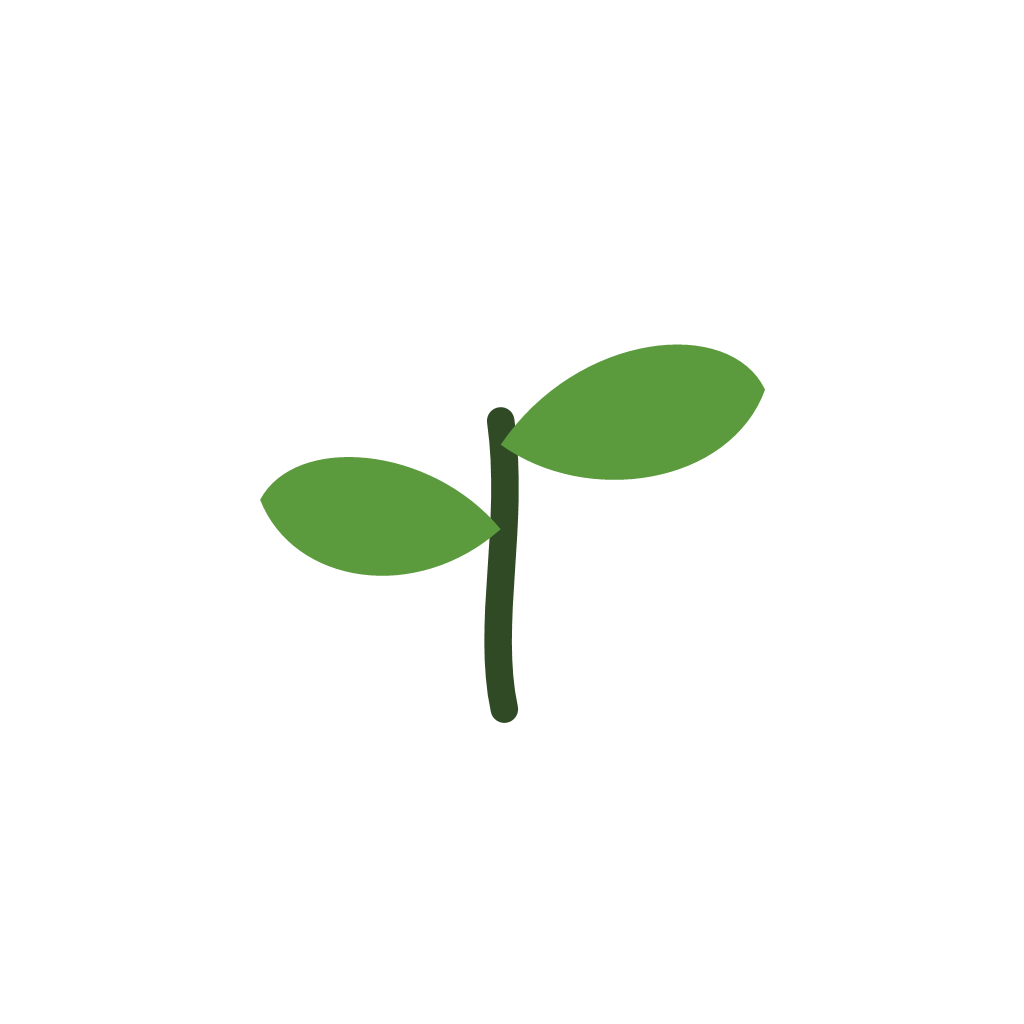
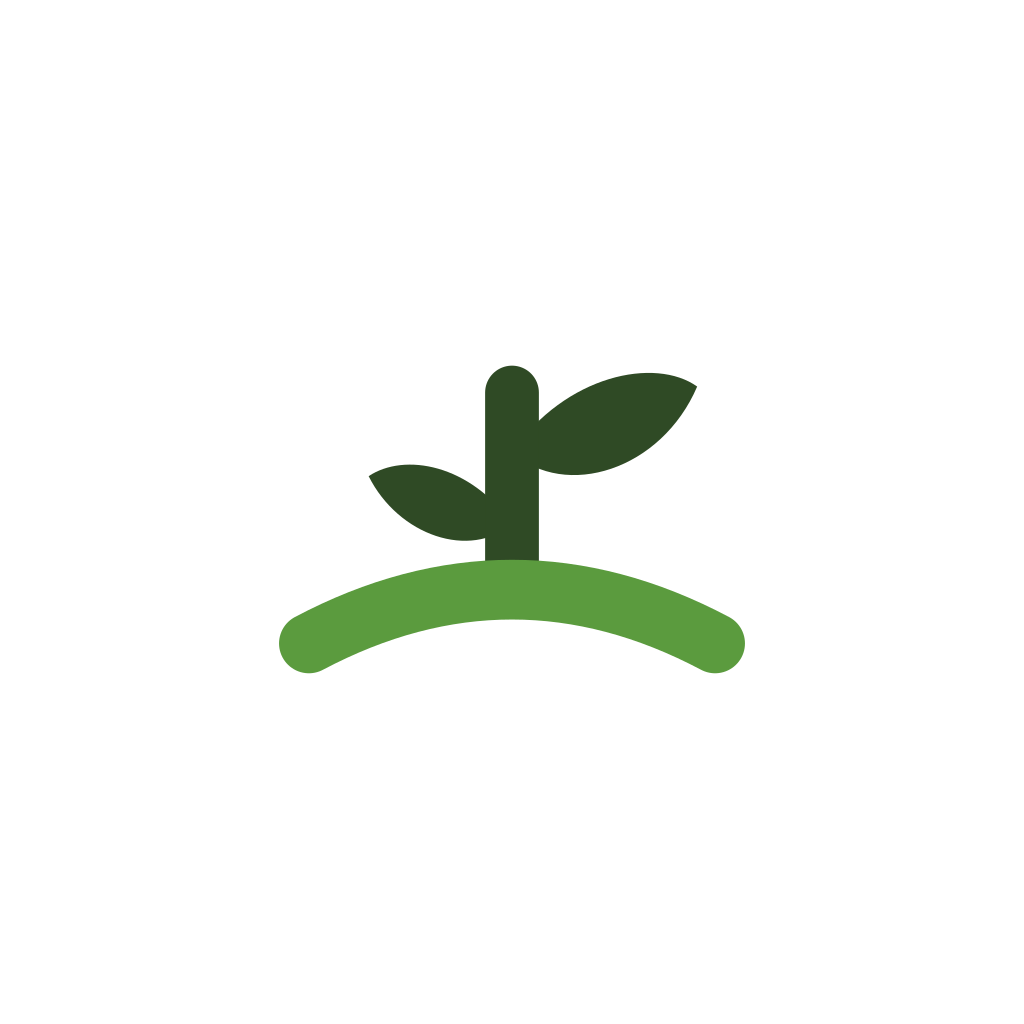
feat: ブランドシンボルを「畝と芽」に確定し、SVG から素材を書き出すようにした (#66)
Q2 のシンボルを 4 案から選定。畝から芽が生えている形にする。
場所(区画)を持つアプリだと分かるのは 4 案でこれだけだった。

## 形の決めごと

- 畝を最後に描いて茎の根元を覆う。芽を宙に浮かせると畑ではなく観葉植物に見える
- 双葉は左右で大きさを変える。左右対称だと図形記号に寄りすぎる
- 線は太い(茎 9 / 畝 10 / 96 基準)。24px まで潰れないことを実測で確認

畝を折って芽が抜ける形も描いたが、アイコンの大きさでは断片が寄り集まって
「K」のような抽象記号に見えたため不採用。大きく描いた図が小さくすると
別物に見えるのは毎回起きるので、決める前に 24/48px で見ること。

1024px の書き出しで茎の丸い先端が畝の下に 0.5 だけ覗いて黒い点に見えたため、
茎を 2 短くした。アダプティブアイコンも実機で明らかに小さかったので 0.46 → 0.56。

## 生成を SVG ベースに置き換えた

PowerShell の System.Drawing は (1) mac/CI で再生成できない
(2) 形の定義がスクリプトの座標にしかなくレビューできない、の 2 点で行き詰まった。

apps/mobile/assets/brand/mark.svg を正とし、sharp で PNG を書き出す。
PNG は生成物なので直接編集しない — pre-commit に --check を入れて、
SVG を直したまま書き出し忘れると落ちるようにした。

実機確認: アプリ一覧のアイコンとスプラッシュを若葉ビルドで確認。

Claude-Session: https://claude.ai/code/session_01R7VM4UnHqkcfy5oUxnKKvG

Changed region(s): [[0.25, 0.3125, 0.75, 0.7188]]

diff --git a/docs/画面設計.md b/docs/画面設計.md
@@ -46,6 +46,35 @@ recipes 系の画面が消えた時点（WBS 1.5 完了後）に削除する。
 
 ---
 
+## 1.5 シンボル(2026-08-04 決定)
+
+「**畝と芽**」。畝から芽が生えている形。
+
+正は `apps/mobile/assets/brand/mark.svg` で、アイコン・スプラッシュ・favicon は
+`pnpm assets:brand` がそこから書き出す。PNG は生成物なので直接編集しない
+(pre-commit の `--check` が SVG との食い違いを落とす)。
+
+### 4 案から選んだ理由
+
+| 案         | 内容                      | 判断                                             |
+| ---------- | ------------------------- | ------------------------------------------------ |
+| 綴じ葉     | 葉の主脈を手帳の綴じ穴に  | 手帳らしさは一番。見送り                         |
+| 栞葉       | 葉の裾を栞の切り欠きに    | 輪郭が最も単純。見送り                           |
+| **畝と芽** | 畝から芽が生えている      | **採用**。場所を持つアプリだと分かるのはこれだけ |
+| 葉と実     | 記録(葉)と収穫(実)の 2 色 | 目を引くが単色で関係が弱る。見送り               |
+
+### 形の決めごと
+
+- **畝を最後に描いて茎の根元を覆う。** 芽を宙に浮かせると、畑ではなく観葉植物に見える
+- **双葉は左右で大きさを変える。** 左右対称にすると図形記号に寄りすぎる
+- **線は太い**(茎 9 / 畝 10 / 96 基準)。24px まで縮めても潰れないことを実測で確認した
+
+畝を折って芽が抜ける形も描いたが、アイコンの大きさでは断片が寄り集まって
+「K」のような抽象記号に見えたため不採用。**大きく描いた図が小さくすると別物に見える**のは
+毎回起きるので、決める前に必ず 24/48px で見ること。
+
+---
+
 ## 2. タイポグラフィ
 
 | 名前   | px  | 用途                                 |

diff --git a/CLAUDE.md b/CLAUDE.md
@@ -63,12 +63,19 @@ Expo SDK 54 / Expo Router v6 / expo-sqlite + Drizzle ORM / Zustand / TanStack Qu
 - `scripts/agent/validate-claude-customizations.mjs` の `foreign-app-identifier` 検査が `apps/` も走査する。だいどこの識別子を書くと pre-commit で止まる(意図的な参照は行末に `daidoko-ref-ok`)
 - release-play / update-store-listing / monetize-golive / promo-video 等のリリース系 skill は、差し替え完了までだいどこの値のまま実行しないこと
 
-## 7. ブランド(未確定 — Q2)
+## 7. ブランド(Q2 — 確定)
 
 配色は**「若葉」に決定**(2026-08-03)。明るい黄緑基調で、だいどこのダーク×金は流用しない。
+シンボルは**「畝と芽」に決定**(2026-08-04)。4 案から選定。畝(明るい緑)を最後に描いて
+茎の根元を覆うことで「植わっている」ように見せている — 芽を宙に浮かせると
+畑ではなく観葉植物に見えるため。
+
+**マークの正は `apps/mobile/assets/brand/mark.svg`。** アイコン・スプラッシュ・favicon は
+`pnpm assets:brand` で SVG から書き出す。**PNG を直接編集しないこと**(pre-commit で
+`--check` が走り、SVG と食い違うと落ちる)。
 4 案を `apps/mobile/src/constants/theme.ts` の `PALETTES` に持ち、`ACTIVE_PALETTE` の変更だけで入れ替わる
-(実機比較は `EXPO_PUBLIC_PALETTE=naedoko` でビルド)。比較モックは `mockup/palette-compare.html`、
-配色と画面構成の根拠は `docs/画面設計.md`。**ロゴ・アイコンは未確定**で仮のまま。UI 表記は「さいえん手帳」。
+(実機比較は `EXPO_PUBLIC_PALETTE=naedoko` でビルド)。比較モックは `mockup/palette-compare.html`、配色・シンボル・画面構成の根拠は `docs/画面設計.md`。
+UI 表記は「さいえん手帳」。
 
 ## 8. 実装フェーズ(詳細は docs/WBS.md)
 
